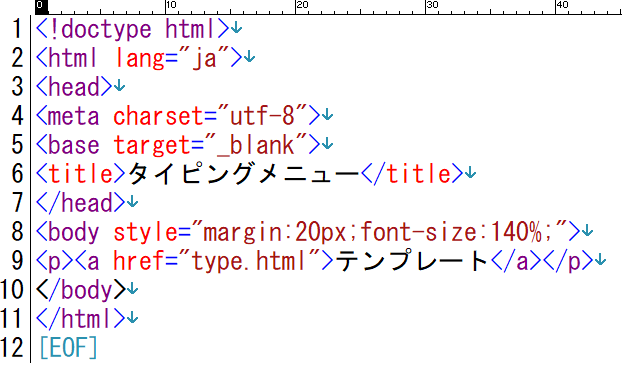
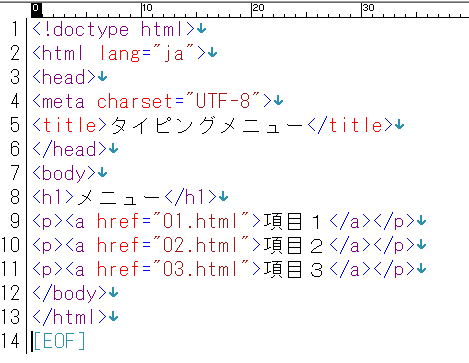
調整

diff --git a/mondai/kanji/名探偵コナン映画タイトル.html b/mondai/kanji/名探偵コナン映画タイトル.html
@@ -1,0 +1,56 @@
+<!doctype html>
+<html lang="ja">
+<head>
+<meta charset="utf-8">
+<link rel="stylesheet" href="style.css">
+<title>タイピング練習</title>
+</head>
+<body>
+<div id="title"></div>
+<div id="result"></div>
+<div id="target" class="line"></div>
+<textarea id="editor" class="line" spellcheck="false"></textarea>
+<script>
+const TITLE_MSG = "名探偵コナン映画タイトル";
+const START_MSG = "Enter⏎でスタート";
+const INPUT_MSG = "かな";
+const RANDOM = "5";
+const WIDTH = "34ch";
+const IME = "ON";
+</script>
+<!-------10--------20--------30--------40-->
+<textarea id="txtdata" hidden>
+時計じかけの摩天楼
+14番目の標的　ターゲット
+世紀末の魔術師
+瞳の中の暗殺者
+天国へのカウントダウン
+ベイカー街の亡霊　ストリート
+迷宮の十字路　クロスロード
+銀翼の奇術師　マジシャン
+水平線上の陰謀　ストラテジー
+探偵たちの鎮魂歌　レクイエム
+紺碧の棺　ジョリーロジャー
+戦慄の楽譜　フルスコア
+漆黒の追跡者　チェイサー
+天空の難破船　ロストシップ
+沈黙の15分　クォーター
+11人目のストライカー
+絶海の探偵　プライベートアイ
+異次元の狙撃手　スナイパー
+業火の向日葵
+純黒の悪夢　ナイトメア
+から紅の恋歌　ラブレター
+ゼロの執行人
+紺青の拳　フィスト
+緋色の弾丸
+ハロウィンの花嫁
+黒鉄の魚影　サブマリン
+100万ドルの五稜星　みちしるべ
+隻眼の残像　フラッシュバック
+ハイウェイの堕天使
+</textarea>
+<!-------10--------20--------30--------40-->
+<script src="typing.js"></script>
+</body>
+</html>

diff --git a/mondai/kanji/index.html b/mondai/kanji/index.html
@@ -17,6 +17,7 @@
 <main>
 <div class="box">
 <span class="sep">New!</span>
+<p><a href="名探偵コナン映画タイトル.html">名探偵コナン映画タイトル</a></p>
 <p><a href="攻殻機動隊.html">攻殻機動隊</a></p>
 <p><a href="警察マスコット.html">警察マスコット</a></p>
 <p><a href="日本国憲法前文.html">日本国憲法　前文</a></p>
@@ -178,6 +179,7 @@
 <p><a href="茶摘み.html">茶摘み</a></p>
 
 <span class="sep">コミックアニメ特撮</span>
+<p><a href="名探偵コナン映画タイトル.html">名探偵コナン映画タイトル</a></p>
 <p><a href="攻殻機動隊.html">攻殻機動隊</a></p>
 <p><a href="打つべし.html">打つべし</a></p>
 <p><a href="あしたのために.html">あしたのために</a></p>

diff --git a/myType/mkfolder.html b/myType/mkfolder.html
@@ -15,10 +15,9 @@
 </header>
 <main>
   <div class="box" style="font-size:150%;">
-  	<h3>タイピング練習のフォルダを作成する</h3>
-<div class="instructions">
-<h3>ダウンロード</h3>
-<a href="download/index.html" target="_blank">ダウンロードメニュー</a><br>
+ 	1.任意の場所にタイピング練習のフォルダを作成する<br>
+  2.ダウンロードと展開<br>
+<a href="type.zip" target="_blank">type.zip</a><br>
 　HTMLファイル Javascript スタイルシート<br>
 
 <img src="typeFiles.png"><br>

diff --git a/myMenu/mkmenu/menu.html b/myMenu/mkmenu/menu.html
@@ -1,11 +1,13 @@
 <!doctype html>
 <html lang="ja">
 <head>
-<meta charset="utf-8">
-<base target="_blank">
+<meta charset="UTF-8">
 <title>タイピングメニュー</title>
 </head>
-<body style="margin:20px;font-size:140%;">
-<p><a href="type.html">テンプレート</a></p>
+<body>
+<h1>メニュー</h1>
+<p><a href="01.html">項目１</a></p>
+<p><a href="02.html">項目２</a></p>
+<p><a href="03.html">項目３</a></p>
 </body>
 </html>

diff --git a/Setting/exp/index.html b/Setting/exp/index.html
@@ -36,6 +36,8 @@
 <img src="かな.png" style="height:2.5em;"> かな漢字変換あり 変換してEnterで確定<br>
 カタカナはCtrl+iで変換
 <hr>
+大文字　Shift+CapsLockでアルファベット大文字
+<hr>
 全画面化がおすすめ <img src="F3.png" style="height:2em;"><br>
 画面の拡大・縮小<br>
 Ctrl ＋ ⌨[＋] [－] [０]<br>

diff --git a/menu2.html b/menu2.html
@@ -42,7 +42,7 @@ color: blue;
 </header>
 <main>
 <div id="menu">
-<a href="myType/index.html">自作する</a><br>
+<a href="myType/index.html">オフラインで練習する</a><br>
 <a href="tools/index.html">問題作成ツール</a><br>
 <a href="myMenu/index.html">練習メニュー作成</a><br>
 <a href="labs/index.html">開発</a><br>

diff --git a/myType/mytype/index.html b/myType/mytype/index.html
@@ -2,7 +2,7 @@
 <html lang="ja">
 <head>
   <meta charset="UTF-8">
-  <title>タイピング練習</title>
+  <title>練習メニュー</title>
   <style>
     body {
         font-family: sans-serif;
@@ -36,7 +36,7 @@
   </style>
 </head>
 <body>
-<h1>タイピング練習</h1>
+<h1>練習メニュー</h1>
 
 </body>
 </html>
